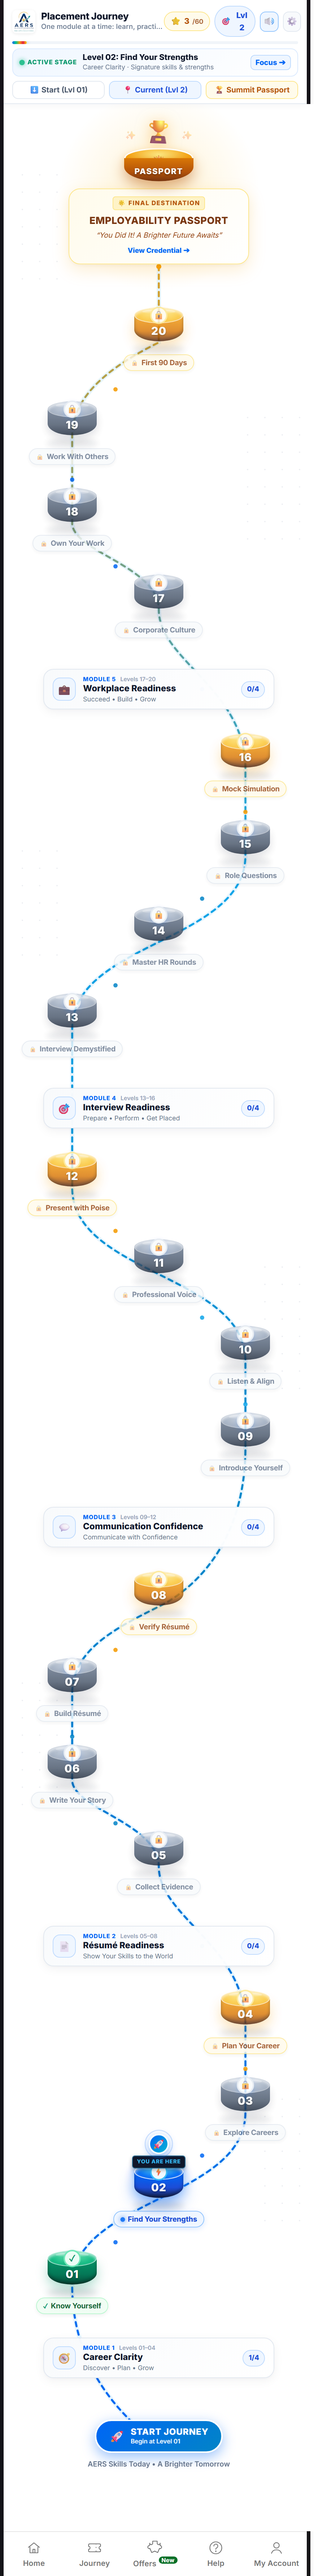
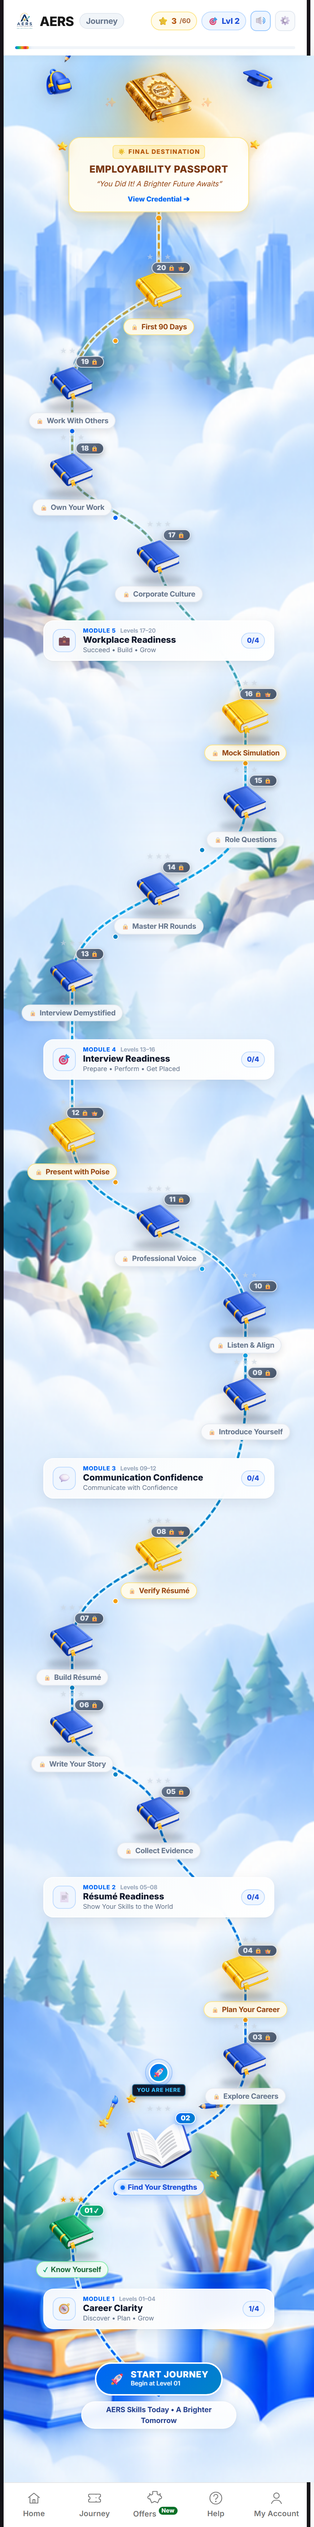
feat(journey): fix book transparency, full opacity, larger open book and replace summit button with last_book

diff --git a/src/components/journey/PodiumNode.css b/src/components/journey/PodiumNode.css
@@ -55,7 +55,7 @@
 /* ================= PLAYER PIN (YOU ARE HERE) ================= */
 .podium-node__player-pin {
   position: absolute;
-  top: -46px;
+  top: -54px;
   display: flex;
   flex-direction: column;
   align-items: center;
@@ -127,8 +127,8 @@
 /* ================= 3D BOOK VISUAL CONTAINER ================= */
 .podium-book-wrapper {
   position: relative;
-  width: 64px;
-  height: 56px;
+  width: 80px;
+  height: 68px;
   display: flex;
   flex-direction: column;
   align-items: center;
@@ -136,10 +136,15 @@
   margin-top: 4px;
 }
 
-/* 3D Book Graphic */
+.podium-node.is-current .podium-book-wrapper {
+  width: 98px;
+  height: 80px;
+}
+
+/* 3D Book Graphic (Closed / Milestone / Locked Books) */
 .podium-book-img {
-  width: 58px;
-  height: 50px;
+  width: 72px;
+  height: 62px;
   object-fit: contain;
   display: block;
   z-index: 5;
@@ -147,14 +152,16 @@
   transition: transform 0.2s cubic-bezier(0.34, 1.56, 0.64, 1), filter 0.2s ease;
   user-select: none;
   -webkit-user-drag: none;
+  opacity: 1;
 }
 
-/* Open Book current level specific sizing and styling */
+/* Open Book current level specific sizing — larger & more prominent */
 .podium-book-img.is-current-book {
-  width: 66px;
-  height: 56px;
-  filter: drop-shadow(0 8px 18px rgba(0, 102, 245, 0.45));
+  width: 94px;
+  height: 76px;
+  filter: drop-shadow(0 10px 22px rgba(0, 102, 245, 0.5));
   animation: current-book-bounce 2.2s infinite ease-in-out;
+  opacity: 1;
 }
 
 @keyframes current-book-bounce {
@@ -162,21 +169,21 @@
     transform: translateY(0) scale(1);
   }
   50% {
-    transform: translateY(-4px) scale(1.05);
+    transform: translateY(-4px) scale(1.04);
   }
 }
 
 /* Floating Level Number Pill Badge on Top-Right of Book */
 .podium-book-badge {
   position: absolute;
-  top: -6px;
-  right: -6px;
+  top: -4px;
+  right: -4px;
   z-index: 12;
   background: linear-gradient(135deg, #1e293b 0%, #0f172a 100%);
   color: #ffffff;
   border: 1.5px solid #ffffff;
   border-radius: 999px;
-  padding: 1.5px 6px;
+  padding: 2px 6.5px;
   font-size: 9px;
   font-weight: 800;
   letter-spacing: 0.2px;
@@ -209,6 +216,8 @@
   background: linear-gradient(135deg, #0066f5 0%, #0284c7 100%);
   border-color: #ffffff;
   box-shadow: 0 3px 10px rgba(0, 102, 245, 0.5);
+  top: -6px;
+  right: -2px;
 }
 
 .podium-node.is-milestone .podium-book-badge {
@@ -234,23 +243,22 @@
   filter: drop-shadow(0 6px 14px rgba(5, 150, 105, 0.35));
 }
 
-/* Locked frosted opacity */
-.podium-node.is-locked {
-  opacity: 0.85;
-}
-
-.podium-node.is-locked:hover {
-  opacity: 0.98;
+/* All nodes have 100% full opacity */
+.podium-node,
+.podium-node.is-locked,
+.podium-node.is-completed,
+.podium-node.is-current {
+  opacity: 1 !important;
 }
 
 /* Diffuse Ground Shadow */
 .podium-ground-shadow {
   position: absolute;
-  bottom: -4px;
+  bottom: -5px;
   left: 50%;
   transform: translateX(-50%);
-  width: 58px;
-  height: 10px;
+  width: 72px;
+  height: 12px;
   border-radius: 50%;
   background: rgba(15, 23, 42, 0.22);
   filter: blur(4px);
@@ -258,9 +266,15 @@
   z-index: 1;
 }
 
+.podium-node.is-current .podium-ground-shadow {
+  width: 90px;
+  height: 14px;
+  bottom: -6px;
+}
+
 /* Hover and active dynamics */
 .podium-node:hover .podium-book-img {
-  transform: scale(1.1) translateY(-2px);
+  transform: scale(1.08) translateY(-2px);
 }
 
 .podium-node:active .podium-book-img {

diff --git a/src/screens/JourneyScreen.css b/src/screens/JourneyScreen.css
@@ -399,16 +399,17 @@
 .journey-clean-summit__trophy {
   display: flex;
   align-items: center;
-  gap: 6px;
-  margin-bottom: -10px;
+  justify-content: center;
+  gap: 8px;
+  margin-bottom: 8px;
   z-index: 5;
 }
 
 .journey-summit-book-icon {
-  width: 72px;
-  height: 64px;
+  width: 92px;
+  height: 82px;
   object-fit: contain;
-  filter: drop-shadow(0 8px 20px rgba(245, 158, 11, 0.6));
+  filter: drop-shadow(0 10px 24px rgba(245, 158, 11, 0.65));
   animation: summit-book-float 3s infinite ease-in-out;
   display: block;
   user-select: none;
@@ -420,12 +421,12 @@
     transform: translateY(0) rotate(0deg) scale(1);
   }
   50% {
-    transform: translateY(-5px) rotate(1.5deg) scale(1.05);
+    transform: translateY(-6px) rotate(1.5deg) scale(1.05);
   }
 }
 
 .journey-clean-summit__sparkle {
-  font-size: 16px;
+  font-size: 18px;
   color: #fbbf24;
   animation: sparkle-pulse 2s infinite ease-in-out alternate;
 }
@@ -437,69 +438,17 @@
   }
   100% {
     opacity: 1;
-    transform: scale(1.2);
+    transform: scale(1.25);
   }
 }
 
 .journey-passport__book-crest {
-  width: 76px;
-  height: 68px;
+  width: 84px;
+  height: 76px;
   object-fit: contain;
-  margin: 0 auto 8px;
+  margin: 0 auto 10px;
   display: block;
-  filter: drop-shadow(0 6px 16px rgba(0, 0, 0, 0.35));
-}
-
-/* 3D Golden Summit Podium */
-.journey-summit-podium {
-  position: relative;
-  width: 96px;
-  height: 48px;
-  margin-bottom: 8px;
-}
-
-.journey-summit-top-face {
-  position: absolute;
-  top: 0;
-  left: 0;
-  width: 96px;
-  height: 28px;
-  border-radius: 50%;
-  background: radial-gradient(ellipse at 50% 30%, #fef08a 0%, #f59e0b 70%, #d97706 100%);
-  border: 2px solid #ffffff;
-  display: flex;
-  align-items: center;
-  justify-content: center;
-  box-shadow: 0 4px 12px rgba(245, 158, 11, 0.4);
-}
-
-.journey-summit-crown {
-  font-size: 14px;
-  margin-top: -2px;
-}
-
-.journey-summit-body {
-  position: absolute;
-  top: 14px;
-  left: 0;
-  width: 96px;
-  height: 32px;
-  border-radius: 0 0 48px 48px / 0 0 20px 20px;
-  background: linear-gradient(180deg, #d97706 0%, #b45309 60%, #78350f 100%);
-  box-shadow: 0 8px 18px rgba(180, 83, 9, 0.45);
-  display: flex;
-  align-items: center;
-  justify-content: center;
-}
-
-.journey-summit-title {
-  font-family: var(--font-brand, 'Outfit', 'Inter', system-ui, sans-serif);
-  font-size: 11px;
-  font-weight: 900;
-  color: #ffffff;
-  letter-spacing: 1px;
-  margin-top: 4px;
-  text-shadow: 0 1px 2px rgba(0, 0, 0, 0.5);
+  filter: drop-shadow(0 8px 20px rgba(0, 0, 0, 0.35));
 }
 
 /* Summit Card */

diff --git a/src/screens/JourneyScreen.tsx b/src/screens/JourneyScreen.tsx
@@ -331,21 +331,11 @@ export function JourneyScreen() {
               <span className="journey-clean-summit__sparkle">✨</span>
               <img
                 src={lastBookImg}
-                alt="Golden Sacred Passport Book"
+                alt="Golden Sacred Employability Passport Book"
                 className="journey-summit-book-icon"
                 draggable={false}
               />
               <span className="journey-clean-summit__sparkle">✨</span>
-            </div>
-
-            {/* Grand Golden 3D Podium */}
-            <div className="journey-summit-podium">
-              <div className="journey-summit-top-face">
-                <span className="journey-summit-crown">👑</span>
-              </div>
-              <div className="journey-summit-body">
-                <span className="journey-summit-title">PASSPORT</span>
-              </div>
             </div>
 
             <div className="journey-summit-card">
